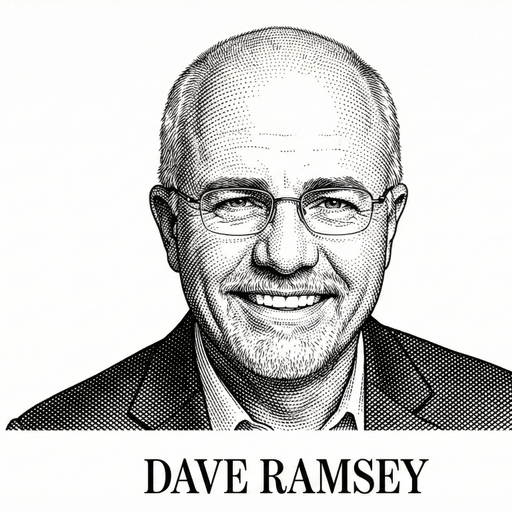
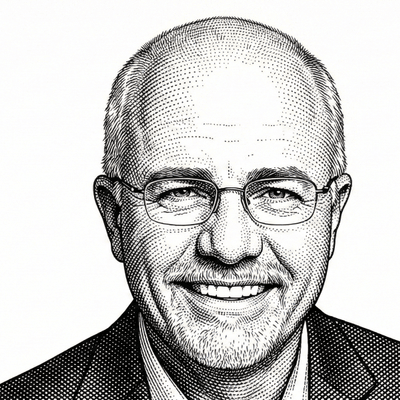
fix: crop name text from portraits, restore unoptimized flag for stipple art
Cropped all 11 WSJ-style portraits from 512x512 to 400x400, removing
redundant name text from bottom (already shown in tooltip). Re-added
unoptimized flag since Next.js lossy WebP conversion destroys fine
stipple dot patterns. Raw PNGs at ~120KB each are small enough to
serve directly.

diff --git a/scripts/crop-portraits.js b/scripts/crop-portraits.js
@@ -1,0 +1,32 @@
+const sharp = require('sharp');
+const path = require('path');
+const fs = require('fs');
+
+const dir = path.join(__dirname, '..', 'public', 'images', 'portraits', 'optimized');
+const FINAL = 400; // 400x400 output — 4.5x the 88px display size
+
+async function cropPortrait(filename) {
+  const filepath = path.join(dir, filename);
+  const buf = await sharp(filepath)
+    // Center-crop top portion: skip text in bottom ~112px
+    // Horizontal center: (512-400)/2 = 56px from each side
+    // Vertical: start 10px down to better center faces
+    .extract({ left: 56, top: 10, width: FINAL, height: FINAL })
+    .png()
+    .toBuffer();
+
+  await sharp(buf).toFile(filepath);
+  const stats = fs.statSync(filepath);
+  console.log(`  ${filename}: ${FINAL}x${FINAL} (${Math.round(stats.size / 1024)}KB)`);
+}
+
+async function main() {
+  const files = fs.readdirSync(dir).filter(f => f.endsWith('.png'));
+  console.log(`Cropping ${files.length} portraits to ${FINAL}x${FINAL} (removing name text)...\n`);
+  for (const file of files) {
+    await cropPortrait(file);
+  }
+  console.log('\nDone!');
+}
+
+main().catch(console.error);

diff --git a/src/components/QuoteTickerWithPortraits.tsx b/src/components/QuoteTickerWithPortraits.tsx
@@ -288,9 +288,9 @@ export default function QuoteTickerWithPortraits({
                   <Image
                     src={PORTRAITS[hoveredQuote.lastName]}
                     alt={`${hoveredQuote.firstName} ${hoveredQuote.lastName}`}
-                    width={180}
-                    height={180}
-                    quality={95}
+                    width={400}
+                    height={400}
+                    unoptimized
                     className="object-cover object-top w-full h-full"
                   />
                 </div>
